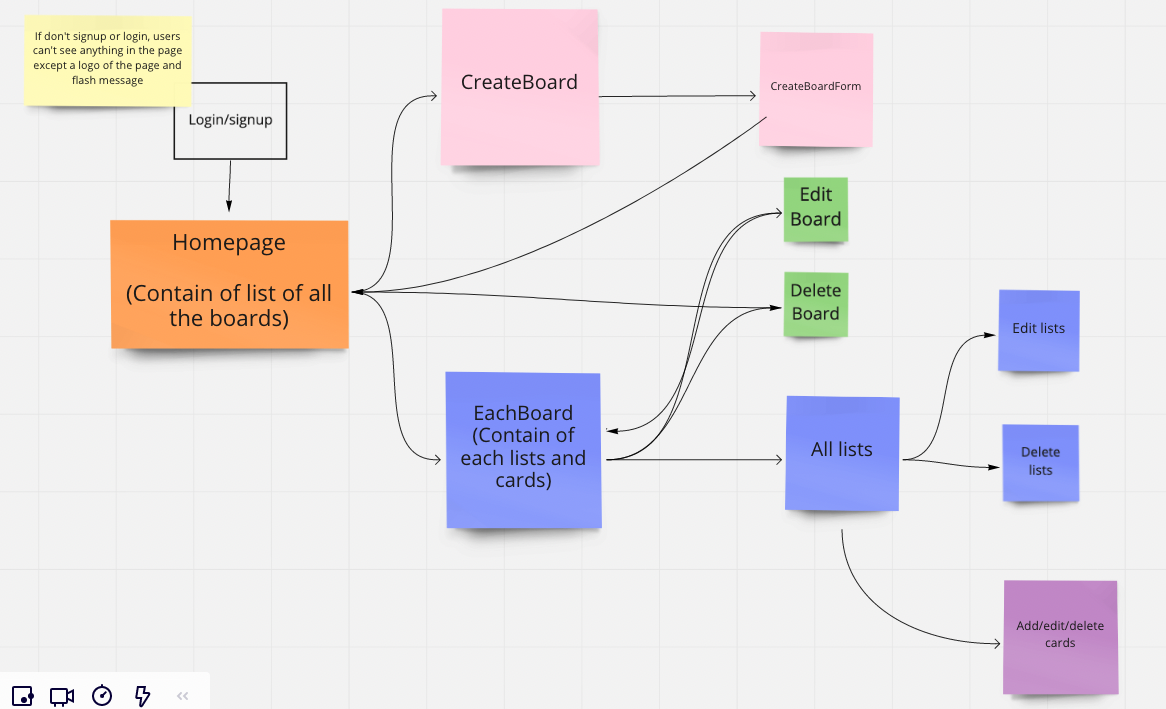
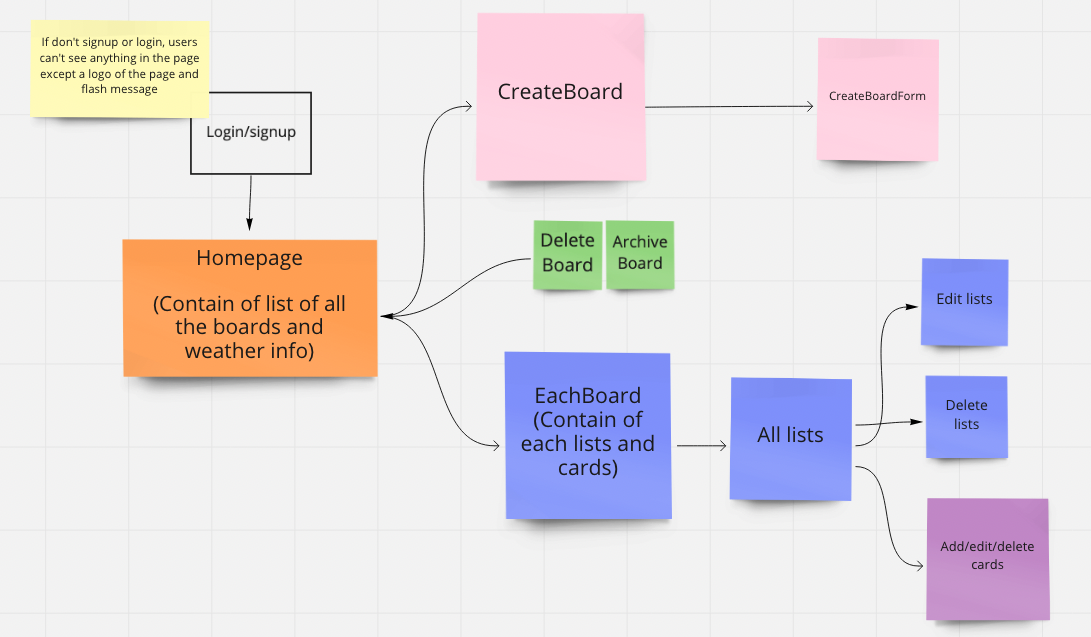
edit readme file

diff --git a/README.md b/README.md
@@ -2,25 +2,22 @@
 # Capstone 1 Proposal
 
 ## Goal of Project:
-The goal of this website is to make an advanced To Do list web app. Within the web, users can create a new board of each project, add lists of progress and each step under the list. The target users can be anyone who wants to manage their assignments or projects. (For the collab functions, I may add it if I have times)
+The goal of this website is to make an advanced To Do list web app. Within the web, users can create a new board of each project, add lists of progress and each step under the list. Within the list, user can move their steps. The target users can be anyone who wants to manage their assignments or projects. 
 
 ## Data and API:
-After I read through the Trello API, I think the most important elements for the database are users, boards, lists and cards. The basic data be looked like below:
-![This is an image](/data.png)
+The most important elements for the database are users, boards, lists and cards. The basic data be looked like below:
+![This is an image](/data2.png)
 
-Users table has information of username, password and board_id (refer to boards table).
-Boards table has information of board name
-Lists table has information of list name
-Cards table has information of cards name, description, deadline.
+Users table has information of username, password, email, firstname, lastname, city and state.
+Boards table has information of board name, archive(boolean value), users_id(refer to users table).
+Lists table has information of list name, boards_id, users_id(refer to boards and users table).
+Cards table has information of cards name, description, deadline, lists_id,boards_id, users_id (refer to lists,boards and users table).
 
-_ _Haven’t found solutions to connect boards, lists and cards
-The database may add more data based on the features that I want to add._ _
-
-(Added)API:
-OpenWeatherMap API, based on users location show current weather and 4-days weather
+API:
+This web used OpenWeatherMap API, which shows user with his/her place's weather based on user's location. The location data are saved in users table.
 
 ## User Flow:
-Users have to signup/login first, and then they can see their existing boards or add a new board. After clicking on the board they want to see, the page will jump to the board page. Then users can adjust their lists and cards.
+Users have to signup/login first, and then they can see their existing boards or add a new board. After clicking on the board they want to see, the page will jump to the board page. User can add, delete/archive their boards. Users can also adjust their lists and cards.
 ![This is an image](/user-flow.png)
 
 
